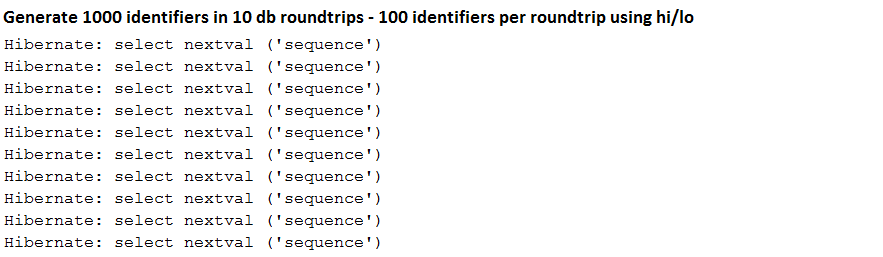
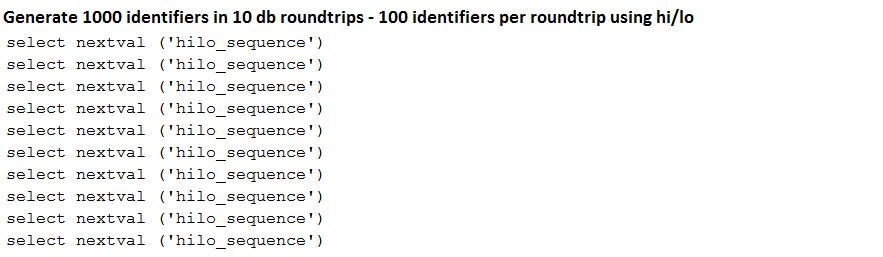
Hibernate hi/lo algorithm

diff --git a/HibernateSpringBootHiLo/src/main/java/com/bookstore/entity/Author.java b/HibernateSpringBootHiLo/src/main/java/com/bookstore/entity/Author.java
@@ -17,7 +17,7 @@ public class Author implements Serializable {
     @GeneratedValue(strategy = GenerationType.SEQUENCE, generator = "hilo")
     @GenericGenerator(name = "hilo", strategy = "org.hibernate.id.enhanced.SequenceStyleGenerator",
             parameters = {
-                @Parameter(name = "sequence_name", value = "sequence"),
+                @Parameter(name = "sequence_name", value = "hilo_sequence"),
                 @Parameter(name = "initial_value", value = "1"),
                 @Parameter(name = "increment_size", value = "100"),
                 @Parameter(name = "optimizer", value = "hilo")
